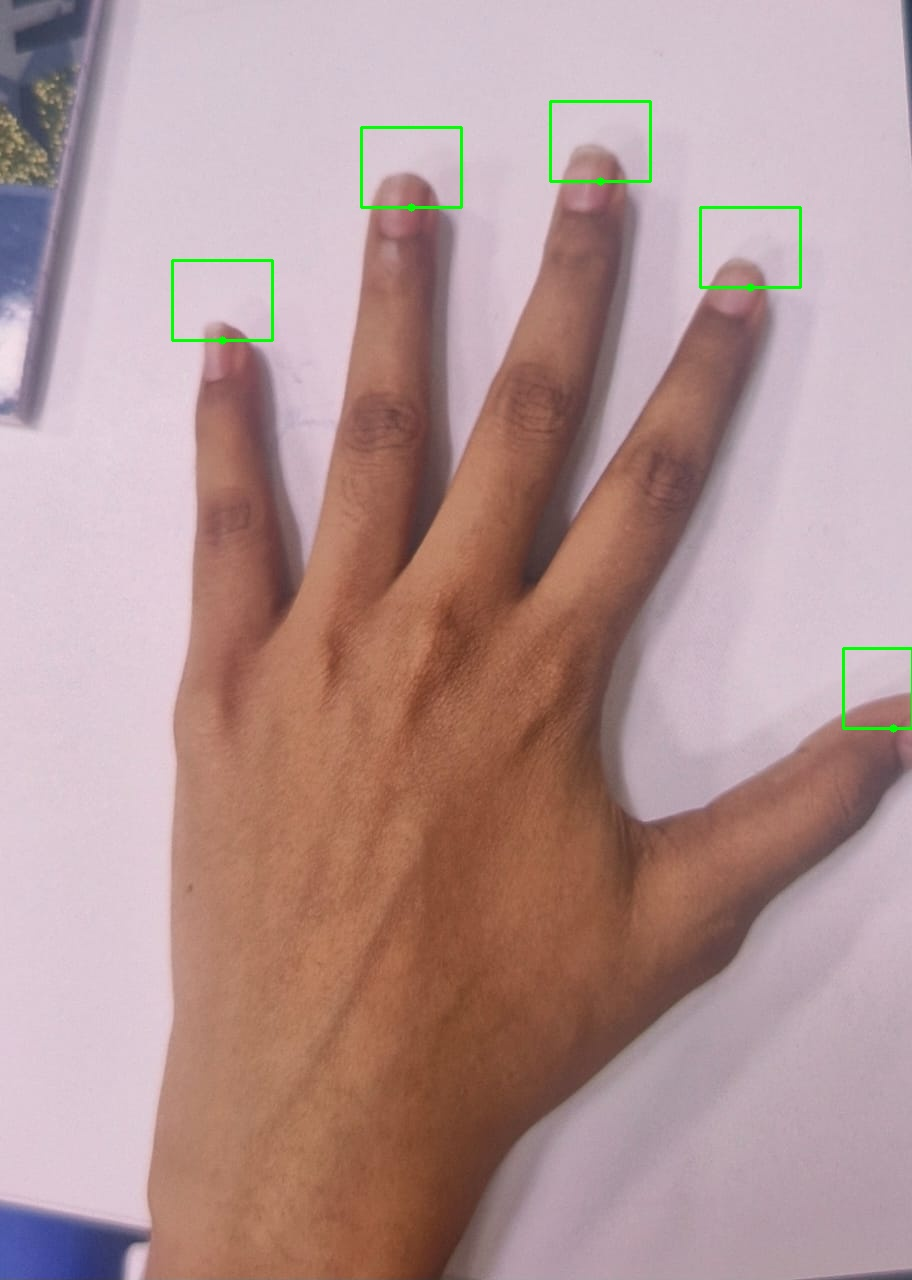
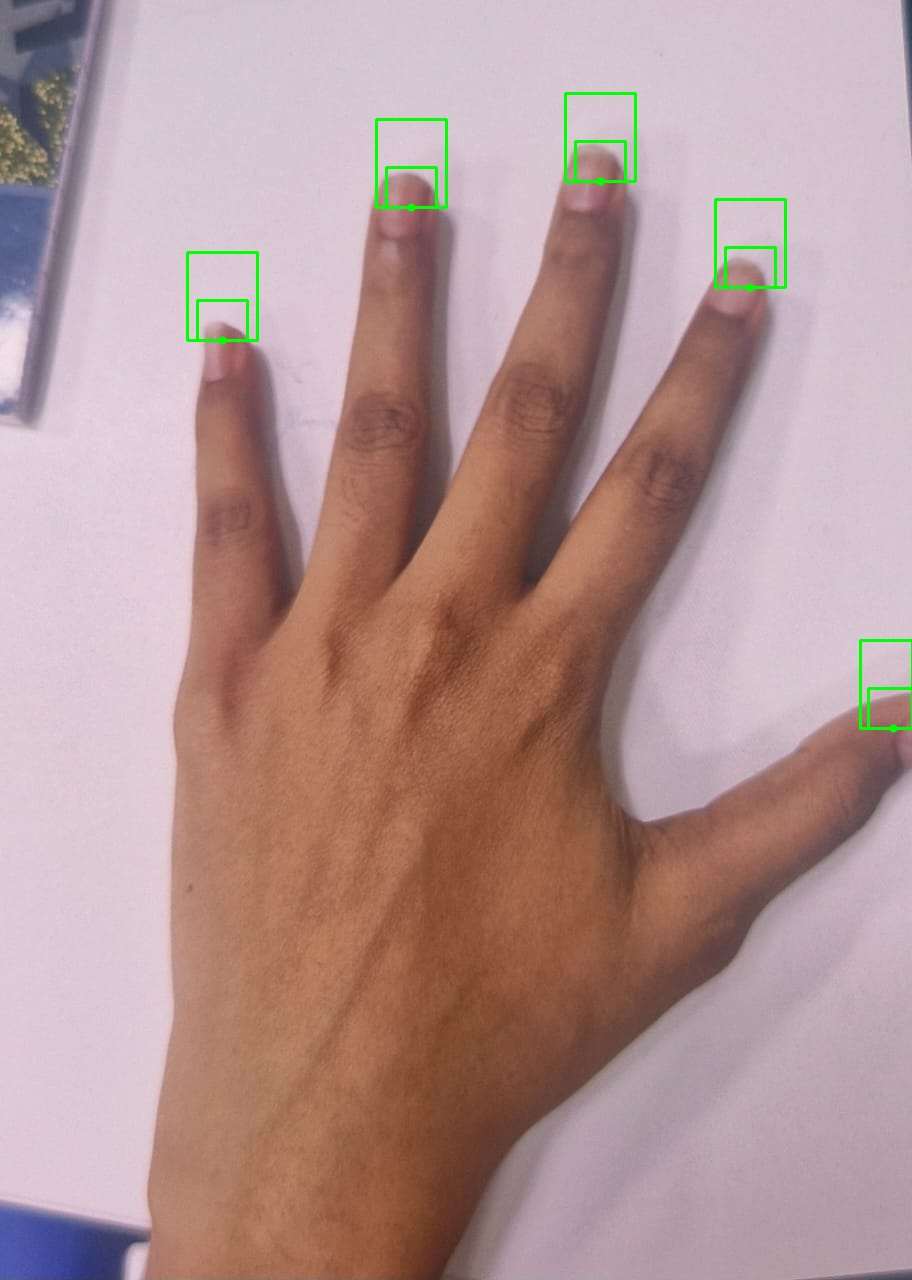
Updated extraction of ROI - 10 images extracted using rectangular bound

diff --git a/backend/app/core/nail_detector.py b/backend/app/core/nail_detector.py
@@ -55,10 +55,25 @@ def detect_nail_roi(image_path, debug=False):
                 x = int(hand_landmarks.landmark[fid].x * w)
                 y = int(hand_landmarks.landmark[fid].y * h)
                 cv2.circle(annotated, (x, y), 4, (0, 255, 0), -1)
-                nail_h, nail_w = 80, 100
-                y1, y2 = max(0, y - nail_h), min(h, y)
-                x1, x2 = max(0, x - nail_w // 2), min(w, x + nail_w // 2)
-                roi = img[y1:y2, x1:x2]
+                # Initial small fingertip ROI
+                small_h, small_w = 40, 50
+                y1, y2 = max(0, y - small_h), min(h, y)
+                x1, x2 = max(0, x - small_w // 2), min(w, x + small_w // 2)
+                small_roi = img[y1:y2, x1:x2]
+
+                if small_roi.size == 0:
+                    continue
+                if is_painted_nail(small_roi):
+                    return None, annotated, "💅 Painted nail detected. Remove nail polish."
+
+                # ➤ Expand to full nail bed
+                nx1, ny1, nx2, ny2 = expand_to_nail_bed(x1, y1, x2-x1, y2-y1, w, h)
+                roi = img[ny1:ny2, nx1:nx2]
+
+                if is_skin_color_region(roi):
+                    rois.append(roi)
+                cv2.rectangle(annotated, (nx1, ny1), (nx2, ny2), (0, 255, 0), 2)
+
                 if roi.size == 0: continue
                 if is_painted_nail(roi):
                     return None, annotated, "💅 Painted nail detected. Please remove nail polish."
@@ -83,3 +98,26 @@ def is_painted_nail(roi):
     hsv = cv2.cvtColor(roi, cv2.COLOR_BGR2HSV)
     mean_sat, mean_val = np.mean(hsv[:, :, 1]), np.mean(hsv[:, :, 2])
     return mean_sat > 85 and mean_val > 130
+
+def expand_to_nail_bed(x, y, w, h, img_w, img_h):
+    """
+    Expands fingertip ROI to include entire nail bed:
+    - distal edge
+    - nail body
+    - lunula
+    - lateral folds
+    """
+    # Nail bed typically ≈ 2.2 × nail height
+    new_h = int(h * 2.2)
+    new_w = int(w * 1.4)
+
+    cx = x + w // 2
+
+    nx1 = max(0, cx - new_w // 2)
+    nx2 = min(img_w, cx + new_w // 2)
+
+    # Expand UPWARDS toward proximal fold
+    ny2 = y + h    # fingertip bottom
+    ny1 = max(0, ny2 - new_h)
+
+    return nx1, ny1, nx2, ny2

diff --git a/backend/app/core/contour_detector.py b/backend/app/core/contour_detector.py
@@ -1,5 +1,6 @@
 import cv2
 import numpy as np
+from core.nail_detector import expand_to_nail_bed
 
 def extract_nail_roi(img):
     """Detect and extract the nail region using skin masking + contour filtering."""
@@ -32,7 +33,10 @@ def extract_nail_roi(img):
     for cnt in contours:
         x, y, w, h = cv2.boundingRect(cnt)
         if y < top_section and w > 30 and h > 20:
-            roi = img[y:y+h, x:x+w]
+            # Expand contour box to nail-bed proportions
+            nx1, ny1, nx2, ny2 = expand_to_nail_bed(x, y, w, h, img_w, img_h)
+            roi = img[ny1:ny2, nx1:nx2]
+
             best_box = (x, y, w, h)
             break
 
